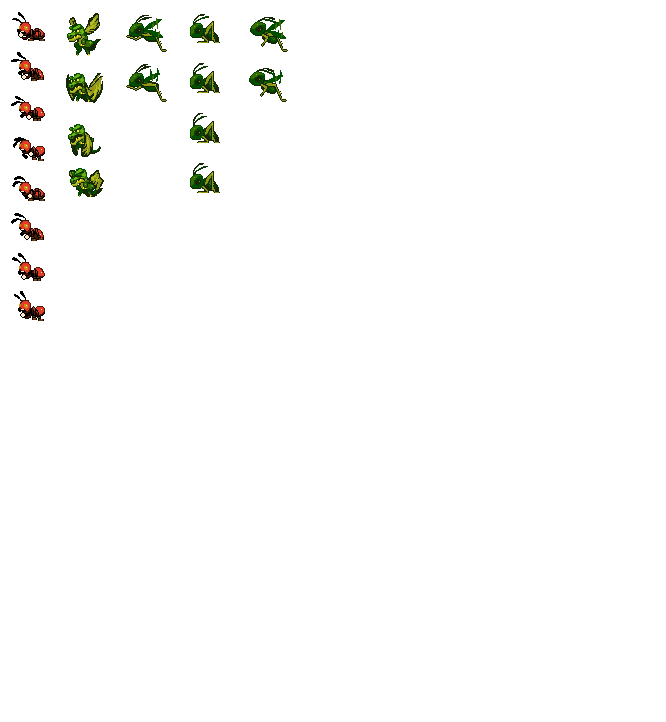
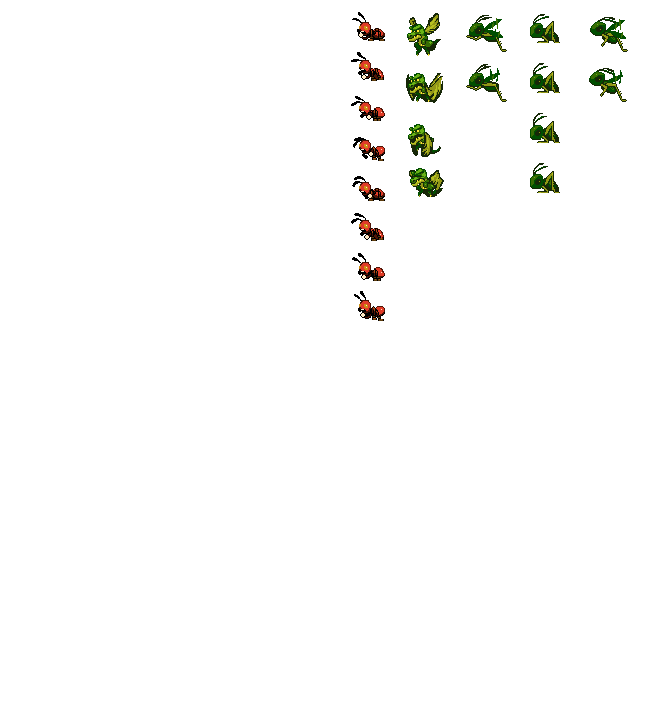
imagem inimigos alterada

diff --git a/sketch.js b/sketch.js
@@ -6,7 +6,9 @@ let sprite;
 let inimigo;
 let cenario;
 let music;
-let jumpSound
+let jumpSound;
+let itemSound;
+let hurtSound;
 
 const matrizPersonagem = [
   [10, 10],
@@ -25,21 +27,32 @@ const matrizPulo = [
 ];
 
 const matrizAnt = [
-  [10, 10],
-  [10, 50],
-  [10, 90],
-  [10, 130],
-  [10, 170],
-  [10, 210],
-  [10, 250],
-  [10, 190],
+  [350, 10],
+  [350, 50],
+  [350, 90],
+  [350, 130],
+  [350, 170],
+  [350, 210],
+  [350, 250],
+  [350, 190],
 ];
 
 const matrizGator = [
-  [60, 10],
-  [60, 60],
-  [60, 110],
-]
+  [400, 10],
+  [400, 60],
+  [400, 110],
+];
+
+const matrizHurt = [
+  [210, 10],
+  [210, 70],
+];
+
+const matrizAccorn = [
+  [310, 10],
+  [310, 30],
+  [310, 50],
+];
 
 function preload() {
   bg_clouds = loadImage('assets/images/background/large-bg-clouds.png');
@@ -50,6 +63,8 @@ function preload() {
   inimigo = loadImage('assets/images/enemies/enemies.png');
   music = loadSound('assets/sounds/the_valley.ogg');
   jumpSound = loadSound('assets/sounds/jump.ogg');
+  itemSound = loadSound('assets/sounds/item.ogg');
+  hurtSound = loadSound('assets/sounds/hurt.ogg');
 }
 
 function setup() {
@@ -73,6 +88,11 @@ function keyPressed() {
   } 
 }
 
+function mousePressed() {
+player.pula();
+jumpSound.play();
+}
+
 function draw() {
   clouds.exibe();
   clouds.move();
@@ -93,16 +113,26 @@ function draw() {
 
   if (player.estaColidindo(Ant)) {
     console.log('colidiu');
-    noLoop();
+    player.matriz = matrizHurt
+    hurtSound.play();
+    
+    // noLoop();
   }
 
   function pulo() {
-    if (player.y === 507) {
-      player.matriz = matrizPersonagem;
-    } else if (key = true) {
+    if (player.y != 507) {
       player.matriz = matrizPulo;
+    } else {
+      player.matriz = matrizPersonagem;
     }
+    // if (player.y === 507)  else if (keyIsPressed === true || mouseIsPressed === true) {
+    //   player.matriz = matrizPulo;
+    // }
   }
-  
+
+  // function collectItem (player, item) {
+  //   item.kill();
+  //   itemSound.play();
+  // }
 }
 

diff --git a/scripts/jogo/animacao.js b/scripts/jogo/animacao.js
@@ -15,6 +15,7 @@ class Animacao {
     exibe() {
         image(this.imagem, this.x, this.y, this.largura, this.altura, this.matriz[this.frameAtual][0], this.matriz[this.frameAtual][1], this.larguraSprite, this.alturaSprite);
         this.anima();
+        console.log(this.matriz[this.frameAtual])
     }
 
     anima() {
@@ -23,7 +24,6 @@ class Animacao {
         if (this.frameAtual >= this.matriz.length - 1) {
           this.frameAtual = 0;
         } 
-
     }
 
 }

diff --git a/index.html b/index.html
@@ -25,6 +25,10 @@
 
       Other Sound effects made by Ansimuz.
     -->
+
+    <div id="p5_loading" class="loadingclass">Carregando...</div>
+
+
     <script src="scripts/jogo/animacao.js"></script>
     <script src="scripts/jogo/personagem.js"></script>
     <script src="scripts/jogo/inimigo.js"></script>
